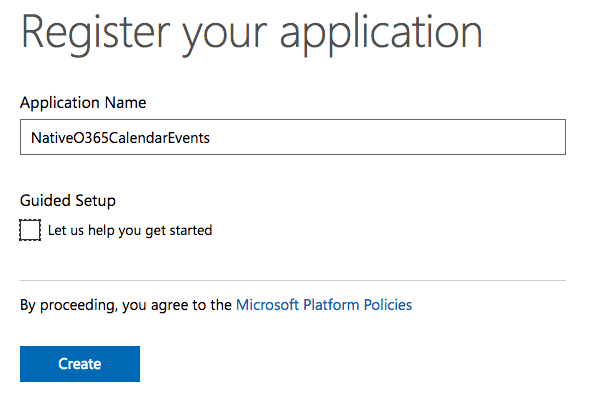
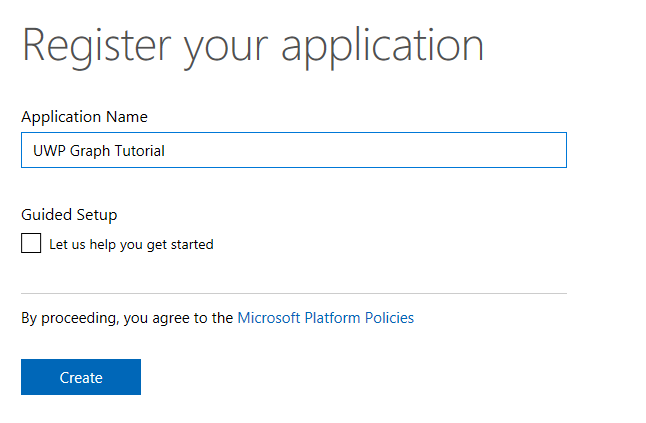
Updated module 2
Changed name of app in registration and removed unnecessary steps.

diff --git a/Demos/02-arp-app/README.md b/Demos/02-arp-app/README.md
@@ -1,14 +1,18 @@
-# Create an Azure AD native application with the App Registration Portal
+# Register a native application with the Application Registration Portal
 
-In this demo you will create a new Azure AD native application using the App Registry Portal (ARP).
+In this demo you will create a new Azure AD native application using the Application Registry Portal (ARP).
 
-1. Open a browser and navigate to the **App Registry Portal**: **apps.dev.microsoft.com** and login using a **personal account** (aka: Microsoft Account) or **Work or School Account**.
+1. Open a browser and navigate to the [Application Registration Portal](https://apps.dev.microsoft.com) and login using a **personal account** (aka: Microsoft Account) or **Work or School Account**.
+
 1. Select **Add an app** at the top of the page.
-1. On the **Register your application** page, set the **Application Name** to **NativeO365CalendarEvents** and select **Create**.
+
+    > **Note:** If you see more than one **Add an app** button on the page, select the one that corresponds to the **Converged apps** list.
+
+1. On the **Register your application** page, set the **Application Name** to **UWP Graph Tutorial** and select **Create**.
 
     ![Screenshot of creating a new app in the App Registration Portal website](../../Images/arp-create-app-01.png)
 
-1. On the **NativeO365CalendarEvents Registration** page, under the **Properties** section, copy the **Application Id** Guid as you will need it later.
+1. On the **UWP Graph Tutorial Registration** page, under the **Properties** section, copy the **Application Id** as you will need it later.
 
     ![Screenshot of newly created application's ID](../../Images/arp-create-app-02.png)
 
@@ -18,21 +22,5 @@ In this demo you will create a new Azure AD native application using the App Reg
     1. In the **Add Platform** dialog, select **Native Application**.
 
         ![Screenshot creating a platform for the app](../../Images/arp-create-app-03.png)
-
-    1. After the native application platform is created, copy the **Custom Redirect URIs** as you will need it later.
-
-        ![Screenshot of the custom application URI for the native application](../../Images/arp-create-app-04.png)
-
-        > Unlike application secrets that are only displayed a single time when they are created, the custom redirect URIs are always shown so you can come back and get this string if you need it later.
-
-1. In the **Microsoft Graph Permissions** section, select **Add** next to the **Delegated Permissions** subsection.
-
-    ![Screenshot of the Add button for adding a delegated permission](../../Images/arp-add-permission-01.png)
-
-    In the **Select Permission** dialog, locate and select the permission **Calendars.Read** and select **OK**:
-
-      ![Screenshot of adding the Calendars.Read permission](../../Images/arp-add-permission-02.png)
-
-      ![Screenshot of the newly added Calendars.Read permission](../../Images/arp-add-permission-03.png)
 
 1. Scroll to the bottom of the page and select **Save**.
